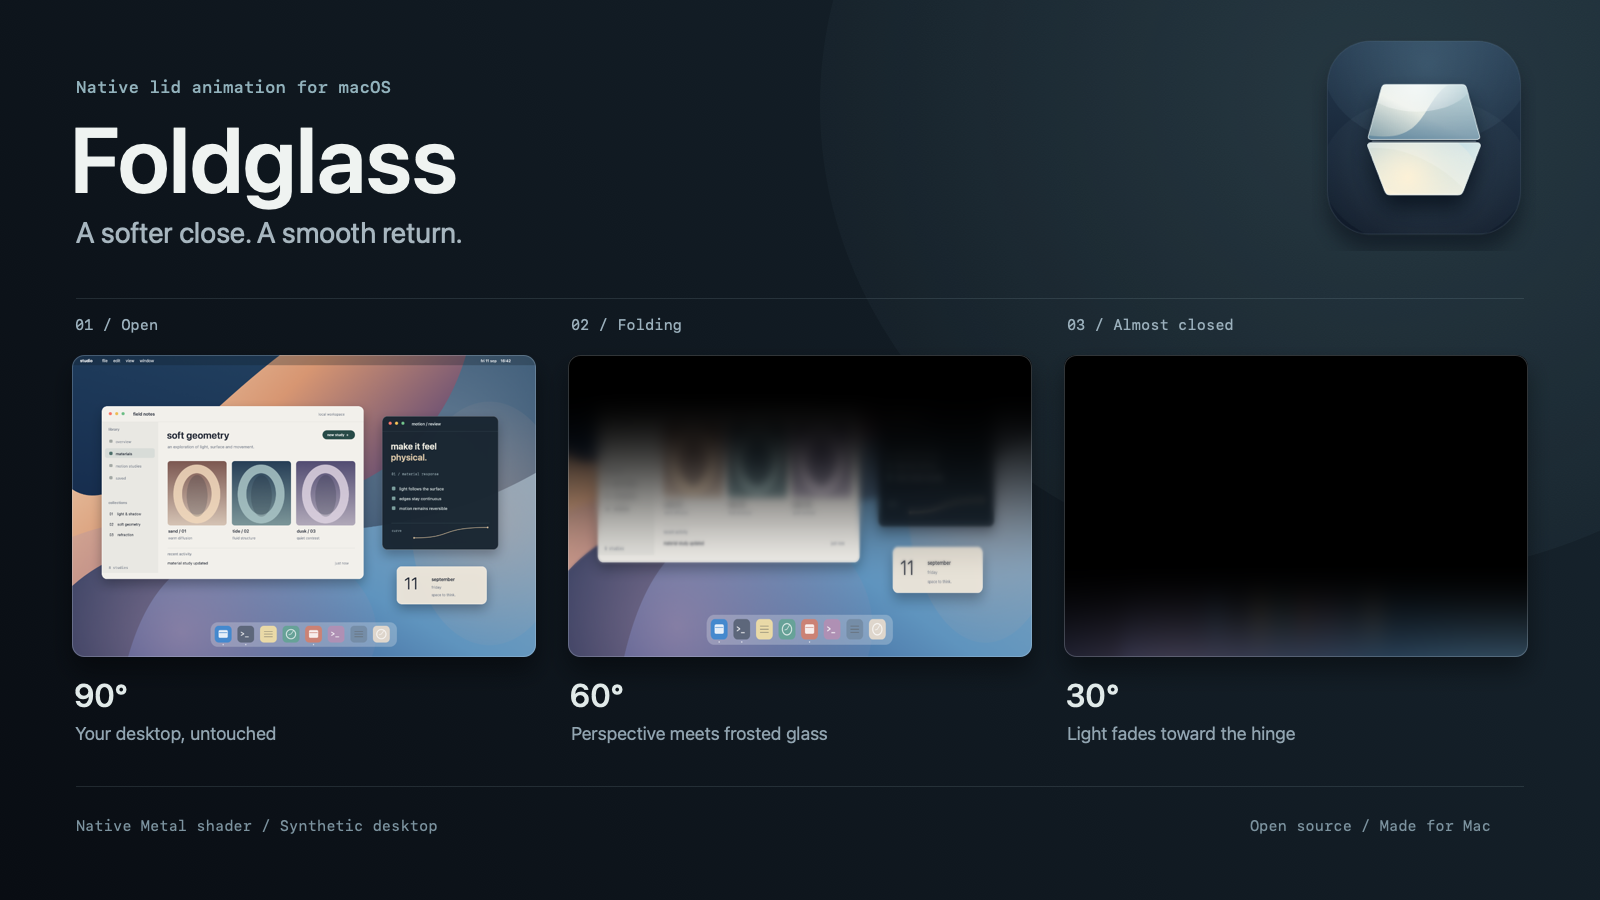
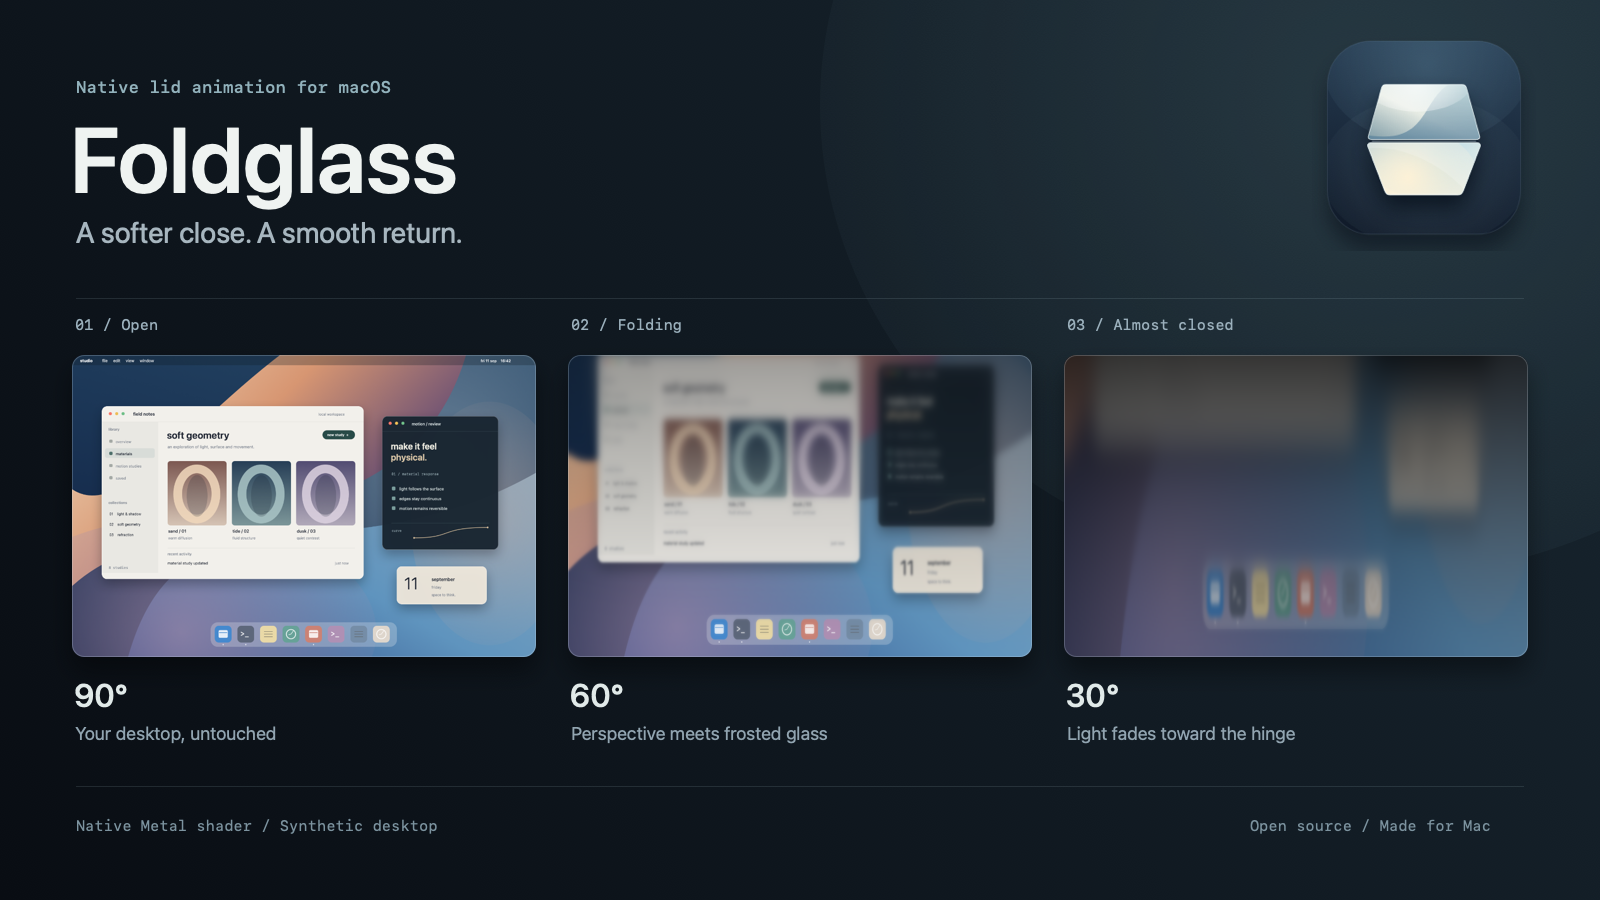
Soften folding light and smooth the return to the live screen

Changed region(s): [[0.3438, 0.3733, 0.9688, 0.7467]]

diff --git a/Sources/AppModel.swift b/Sources/AppModel.swift
@@ -28,7 +28,14 @@ final class AppModel: ObservableObject {
         }
     }
     @Published var enabled = true { didSet { if !enabled { dismissEffect() }; wakeState.cancelOpening(); armed = false } }
-    @Published private(set) var angle: Double?
+    // The fullscreen effect covers settings. Keep reading the current angle,
+    // but avoid rebuilding the settings view for every sensor update beneath it.
+    // Publishing effectVisible on exit refreshes the displayed angle as well.
+    private(set) var angle: Double? {
+        willSet {
+            if angle != newValue && !effectVisible { objectWillChange.send() }
+        }
+    }
     @Published private(set) var sensorError: AppMessage?
     @Published private(set) var permission = CGPreflightScreenCaptureAccess()
     @Published private(set) var message: AppMessage?
@@ -60,6 +67,7 @@ final class AppModel: ObservableObject {
     private var suspended: Bool { wakeState.isSuspended }
     private var displayAngle: Double = 90
     private var motion = FoldMotion(angle: 90)
+    private var opacity = FoldOpacity()
     private var targetAngle: Double = 90
     private var lastFrame = CACurrentMediaTime()
     private var firstSubmittedFrame = 0
@@ -349,6 +357,7 @@ final class AppModel: ObservableObject {
     }
 
     private func showOverlay(on screen: NSScreen, surface: CaptureSurface) throws {
+        opacity = FoldOpacity()
         firstSubmittedFrame = overlayRenderer.submittedFrames
         if surface == .lockScreen && lockScreenSpace == nil { lockScreenSpace = try LockScreenSpace() }
         let window = OverlayWindow(contentRect: screen.frame, styleMask: [.borderless, .nonactivatingPanel], backing: .buffered, defer: false)
@@ -389,16 +398,16 @@ final class AppModel: ObservableObject {
             guard !self.suspended, self.overlaySurface == self.captureSurface else { self.dismissEffect(); return }
             let dt = min(0.05, now - self.lastFrame)
             self.lastFrame = now
+            var finished = false
             if purpose == .demo {
                 let phase = min(1, (now - start) / 6)
                 self.displayAngle = self.settings.startAngle - (self.settings.startAngle - self.settings.endAngle) * pow(sin(phase * .pi), 2)
-                if phase >= 1 { self.dismissEffect(); return }
+                finished = phase >= 1
             } else {
                 self.motion.advance(toward: self.targetAngle, dt: dt)
                 self.displayAngle = self.motion.angle
-                if self.targetAngle >= self.settings.startAngle && self.displayAngle >= self.settings.startAngle - 0.08 {
-                    self.dismissEffect(); return
-                }
+                finished = self.targetAngle >= self.settings.startAngle
+                    && self.displayAngle >= self.settings.startAngle - 0.08
             }
             let settled = purpose != .demo && abs(self.targetAngle - self.displayAngle) < 0.01
                 && abs(self.motion.velocity) < 0.1
@@ -407,10 +416,16 @@ final class AppModel: ObservableObject {
                 self.displayAngle = self.targetAngle
                 self.motion = FoldMotion(angle: self.targetAngle)
             }
-            let progress = FoldState.at(angle: self.displayAngle, settings: self.settings).progress
-            self.overlay?.alphaValue = FoldState.overlayOpacity(progress: progress, elapsed: now - start, fadeDuration: fadeDuration)
-            self.overlayRenderer.update(angle: self.displayAngle, settings: self.settings)
-            if settled { self.animation.pause() }
+            // Render identity at the open endpoint, then reveal the live screen.
+            // Session changes and cancellation still dismiss immediately.
+            let renderAngle = finished ? self.settings.startAngle : self.displayAngle
+            let progress = FoldState.at(angle: renderAngle, settings: self.settings).progress
+            let targetOpacity = FoldState.overlayOpacity(progress: progress, elapsed: now - start, fadeDuration: fadeDuration)
+            self.opacity.advance(toward: targetOpacity, dt: dt)
+            self.overlay?.alphaValue = self.opacity.value
+            if finished && self.opacity.value == 0 { self.dismissEffect(); return }
+            self.overlayRenderer.update(angle: renderAngle, settings: self.settings)
+            if settled && self.opacity.value == targetOpacity { self.animation.pause() }
         }
     }
 

diff --git a/Tests/FoldCurveTests.swift b/Tests/FoldCurveTests.swift
@@ -43,6 +43,31 @@ struct FoldCurveTests {
                      "closing must retain the gradual entry")
         let entry = FoldState.overlayOpacity(progress: 0.001, elapsed: 0.1)
         precondition(entry < 0.001, "small hinge movement must not pop in the snapshot")
+        var opacity60 = FoldOpacity()
+        var opacity120 = FoldOpacity()
+        opacity60.advance(toward: 1, dt: 1.0 / 60)
+        opacity120.advance(toward: 1, dt: 1.0 / 120)
+        precondition(opacity60.value == 1, "the existing entry fade must not be delayed")
+        opacity60.advance(toward: 0, dt: 1.0 / 60)
+        precondition(opacity60.value > 0.5, "fast opening must not remove the overlay in one frame")
+        opacity120.advance(toward: 0, dt: 1.0 / 120)
+        opacity120.advance(toward: 0, dt: 1.0 / 120)
+        for _ in 0..<24 {
+            precondition(abs(opacity60.value - opacity120.value) < 0.001,
+                         "revealing the live screen must take the same time at 60 and 120 Hz")
+            let previous = opacity60.value
+            opacity60.advance(toward: 0, dt: 1.0 / 60)
+            opacity120.advance(toward: 0, dt: 1.0 / 120)
+            opacity120.advance(toward: 0, dt: 1.0 / 120)
+            precondition(opacity60.value <= previous, "the ending must not flash back in")
+        }
+        precondition(opacity60.value == 0 && opacity120.value == 0,
+                     "the reveal must finish so the window and frame clock can stop")
+        opacity60.advance(toward: 0.6, dt: 1.0 / 60)
+        opacity60.advance(toward: 0.2, dt: 1.0 / 60)
+        opacity60.advance(toward: 0.9, dt: 1.0 / 60)
+        precondition(opacity60.value == 0.9, "closing again must immediately follow the current fold")
+        print("reveal passed: continuous exit, refresh-rate independence, completion, reversal")
         var at60 = FoldMotion(angle: 90)
         var at120 = FoldMotion(angle: 90)
         for _ in 0..<60 {

diff --git a/Tests/RenderCheck.swift b/Tests/RenderCheck.swift
@@ -59,16 +59,18 @@ struct RenderCheck {
         white.fill(CGRect(x: 0, y: 0, width: 64, height: 64))
         let whiteTextures = try gpu.textures(for: white.makeImage()!)
         let halfway = try render(51, textures: whiteTextures).0
-        func brightness(at fraction: Double) -> Double {
-            let index = (Int(Double(height - 1) * fraction) * width + width / 2) * 4
-            return Double(halfway[index]) / 255
+        func brightness(_ bytes: Data, y: Double) -> Double {
+            let index = (Int(Double(height - 1) * y) * width + width / 2) * 4
+            return Double(bytes[index]) / 255
         }
-        precondition(brightness(at: 0.1) < 0.1, "the free edge should darken first")
-        precondition(brightness(at: 0.9) > 0.9, "the hinge should stay lit while the shade crosses the panel")
-        let transition = [0.4, 0.5, 0.6].map { brightness(at: $0) }
-        precondition(transition[0] > 0 && transition[2] < 1 &&
-                     transition[0] < transition[1] && transition[1] < transition[2],
-                     "the moving shade must have a broad, continuous transition")
-        print("render checks passed: identity, progressive dimming, soft top-to-hinge shade, black endpoint")
+        let freeEdge = brightness(halfway, y: 0.1)
+        precondition(freeEdge > 0.3 && freeEdge < 0.7,
+                     "the free edge should shade without disappearing halfway through the fold")
+        precondition(brightness(halfway, y: 0.9) > 0.9,
+                     "the hinge should stay lit while the free edge shades")
+        let transition = [0.1, 0.3, 0.5, 0.7, 0.9].map { brightness(halfway, y: $0) }
+        precondition(zip(transition, transition.dropFirst()).allSatisfy { $0 < $1 },
+                     "the shade must be gradual across the panel")
+        print("render checks passed: identity, gradual shading, lit hinge, black endpoint")
     }
 }

diff --git a/Sources/FoldCurve.swift b/Sources/FoldCurve.swift
@@ -36,6 +36,21 @@ struct FoldState {
     }
 }
 
+// Keep a fast opening from dropping the captured image in a single frame.
+// Entry follows the existing fade; only revealing the live screen is smoothed.
+struct FoldOpacity {
+    private(set) var value = 0.0
+
+    mutating func advance(toward target: Double, dt: Double) {
+        if target >= value {
+            value = target
+        } else {
+            value = target + (value - target) * exp(-dt / 0.04)
+            if value - target < 0.001 { value = target }
+        }
+    }
+}
+
 // Preserve velocity between integer-degree sensor reports, including reversals.
 // The analytic critically damped step behaves equally at 60 and 120 Hz.
 struct FoldMotion {

diff --git a/docs/README.ru.md b/docs/README.ru.md
@@ -1,7 +1,7 @@
 <p align="center"><img src="assets/banner.ru.svg" alt="Foldglass" width="100%"></p>
 
 <p align="center">
-  <a href="https://github.com/aldikosh23/Foldglass/releases/tag/v1.3.0"><img src="https://img.shields.io/badge/Скачать-v1.3.0-3B82F6?style=for-the-badge" alt="Скачать v1.3.0"></a>
+  <a href="https://github.com/aldikosh23/Foldglass/releases/tag/v1.4.0"><img src="https://img.shields.io/badge/Скачать-v1.4.0-3B82F6?style=for-the-badge" alt="Скачать v1.4.0"></a>
   <img src="https://img.shields.io/badge/macOS-14%2B-8B5CF6?style=for-the-badge" alt="macOS 14 и новее">
   <img src="https://img.shields.io/badge/Apple_Silicon-Native-14B8A6?style=for-the-badge" alt="Нативное приложение для Apple Silicon">
   <a href="../LICENSE"><img src="https://img.shields.io/badge/License-MIT-64748B?style=for-the-badge" alt="Лицензия MIT"></a>
@@ -11,7 +11,7 @@
   <a href="../README.md">English</a> · <b>Русский</b> · <a href="#установка">Установка</a> · <a href="#настройки">Настройки</a> · <a href="https://github.com/aldikosh23/Foldglass/issues">Сообщить о проблеме</a>
 </p>
 
-**Экран следует за крышкой.** При закрывании MacBook мягкая полоса размытия и затемнения движется от верхнего края к шарниру. Нижняя часть дольше остаётся чёткой и светлой, а изображение постепенно растягивается. При открытии движение идёт обратно, в том числе на экране блокировки после сна.
+**Экран следует за крышкой.** При закрывании MacBook изображение растягивается от шарнира. Размытие и затемнение постепенно усиливаются от свободного края; нижняя часть дольше остаётся чёткой и светлой. Экран полностью гаснет ближе к концу закрывания. При открытии движение идёт обратно, в том числе на экране блокировки после сна. В конце эффект плавно растворяется, возвращая живое изображение.
 
 Частота анимации подстраивается под дисплей: **60 FPS на экране 60 Гц** и **до 120 FPS с ProMotion**. Когда крышка останавливается, цикл анимации приостанавливается и возобновляется при движении. Размытие подготавливается один раз для каждого снимка. Режим 60 Гц измерен на MacBook Air; физическая проверка на дисплее 120 Гц пока не проводилась.
 
@@ -27,7 +27,7 @@
 
 ## Установка
 
-1. Скачайте [Foldglass-v1.3.0-macos-arm64.zip](https://github.com/aldikosh23/Foldglass/releases/download/v1.3.0/Foldglass-v1.3.0-macos-arm64.zip), распакуйте архив и перенесите `Foldglass.app` в папку **«Программы»** до первого запуска.
+1. Скачайте [Foldglass-v1.4.0-macos-arm64.zip](https://github.com/aldikosh23/Foldglass/releases/download/v1.4.0/Foldglass-v1.4.0-macos-arm64.zip), распакуйте архив и перенесите `Foldglass.app` в папку **«Программы»** до первого запуска.
 2. Откройте приложение. Сборка подписана локальной подписью **ad hoc и не прошла нотариализацию Apple**. Если macOS блокирует запуск и вы доверяете этому файлу, откройте **«Системные настройки > Конфиденциальность и безопасность > Всё равно открыть»** и подтвердите запуск. [Инструкция Apple](https://support.apple.com/ru-ru/102445).
 3. Нажмите **Grant screen access** и разрешите Foldglass запись экрана в системных настройках. Если macOS предлагает завершить и снова открыть приложение, согласитесь. Раздел может упоминать системное аудио, но Foldglass его не захватывает.
 4. В настройках приложения выберите **Language > Русский**. Выбор сохраняется и не зависит от языка macOS.

diff --git a/README.md b/README.md
@@ -3,7 +3,7 @@
 </p>
 
 <p align="center">
-  <a href="https://github.com/aldikosh23/Foldglass/releases/tag/v1.3.0"><img src="https://img.shields.io/badge/Download-v1.3.0-3B82F6?style=for-the-badge" alt="Download v1.3.0"></a>
+  <a href="https://github.com/aldikosh23/Foldglass/releases/tag/v1.4.0"><img src="https://img.shields.io/badge/Download-v1.4.0-3B82F6?style=for-the-badge" alt="Download v1.4.0"></a>
   <img src="https://img.shields.io/badge/macOS-14%2B-8B5CF6?style=for-the-badge" alt="macOS 14 and later">
   <img src="https://img.shields.io/badge/Apple_Silicon-Native-14B8A6?style=for-the-badge" alt="Native Apple Silicon app">
   <a href="LICENSE"><img src="https://img.shields.io/badge/License-MIT-64748B?style=for-the-badge" alt="MIT license"></a>
@@ -13,7 +13,7 @@
   <b>English</b> · <a href="docs/README.ru.md">Русский</a> · <a href="#install">Install</a> · <a href="#settings">Settings</a> · <a href="https://github.com/aldikosh23/Foldglass/issues">Report an issue</a>
 </p>
 
-Foldglass brings a glass animation to your MacBook's lid. Close it, and a soft band of blur and darkness moves from the top edge toward the hinge. The lower part stays clear and lit longer as the image stretches. Open it, and the effect reverses with the actual lid angle.
+Foldglass brings a glass animation to your MacBook's lid. As it closes, the image stretches around the hinge. Blur and shade grow gradually from the free edge while the lower part stays clear and lit longer. The image fades to black near the end of closing. Open it, and the effect reverses with the actual lid angle, then blends smoothly back into the live screen.
 
 It runs in the menu bar, supports **English and Russian**, and can start quietly when you log in. English is the default language.
 
@@ -32,7 +32,7 @@ Rendering follows the display's refresh rate, targeting **60 FPS on 60 Hz displa
 
 ## Install
 
-1. **Download and move the app.** Get [Foldglass-v1.3.0-macos-arm64.zip](https://github.com/aldikosh23/Foldglass/releases/download/v1.3.0/Foldglass-v1.3.0-macos-arm64.zip), unzip it, and move `Foldglass.app` into **Applications**.
+1. **Download and move the app.** Get [Foldglass-v1.4.0-macos-arm64.zip](https://github.com/aldikosh23/Foldglass/releases/download/v1.4.0/Foldglass-v1.4.0-macos-arm64.zip), unzip it, and move `Foldglass.app` into **Applications**.
 2. **Open Foldglass.** The app is ad hoc signed and **not notarized**. If macOS blocks it and you trust the download, use **System Settings > Privacy & Security > Open Anyway** and confirm. [Apple's guide](https://support.apple.com/en-us/102445).
 3. **Allow screen capture.** Click **Grant screen access**, then enable Foldglass in the screen recording section of Privacy & Security. Restart the app if macOS asks.
 4. **Try the lid.** Open it past **92°**, then slowly lower it below **90°**. The effect follows the movement and clears as you open the lid again.
